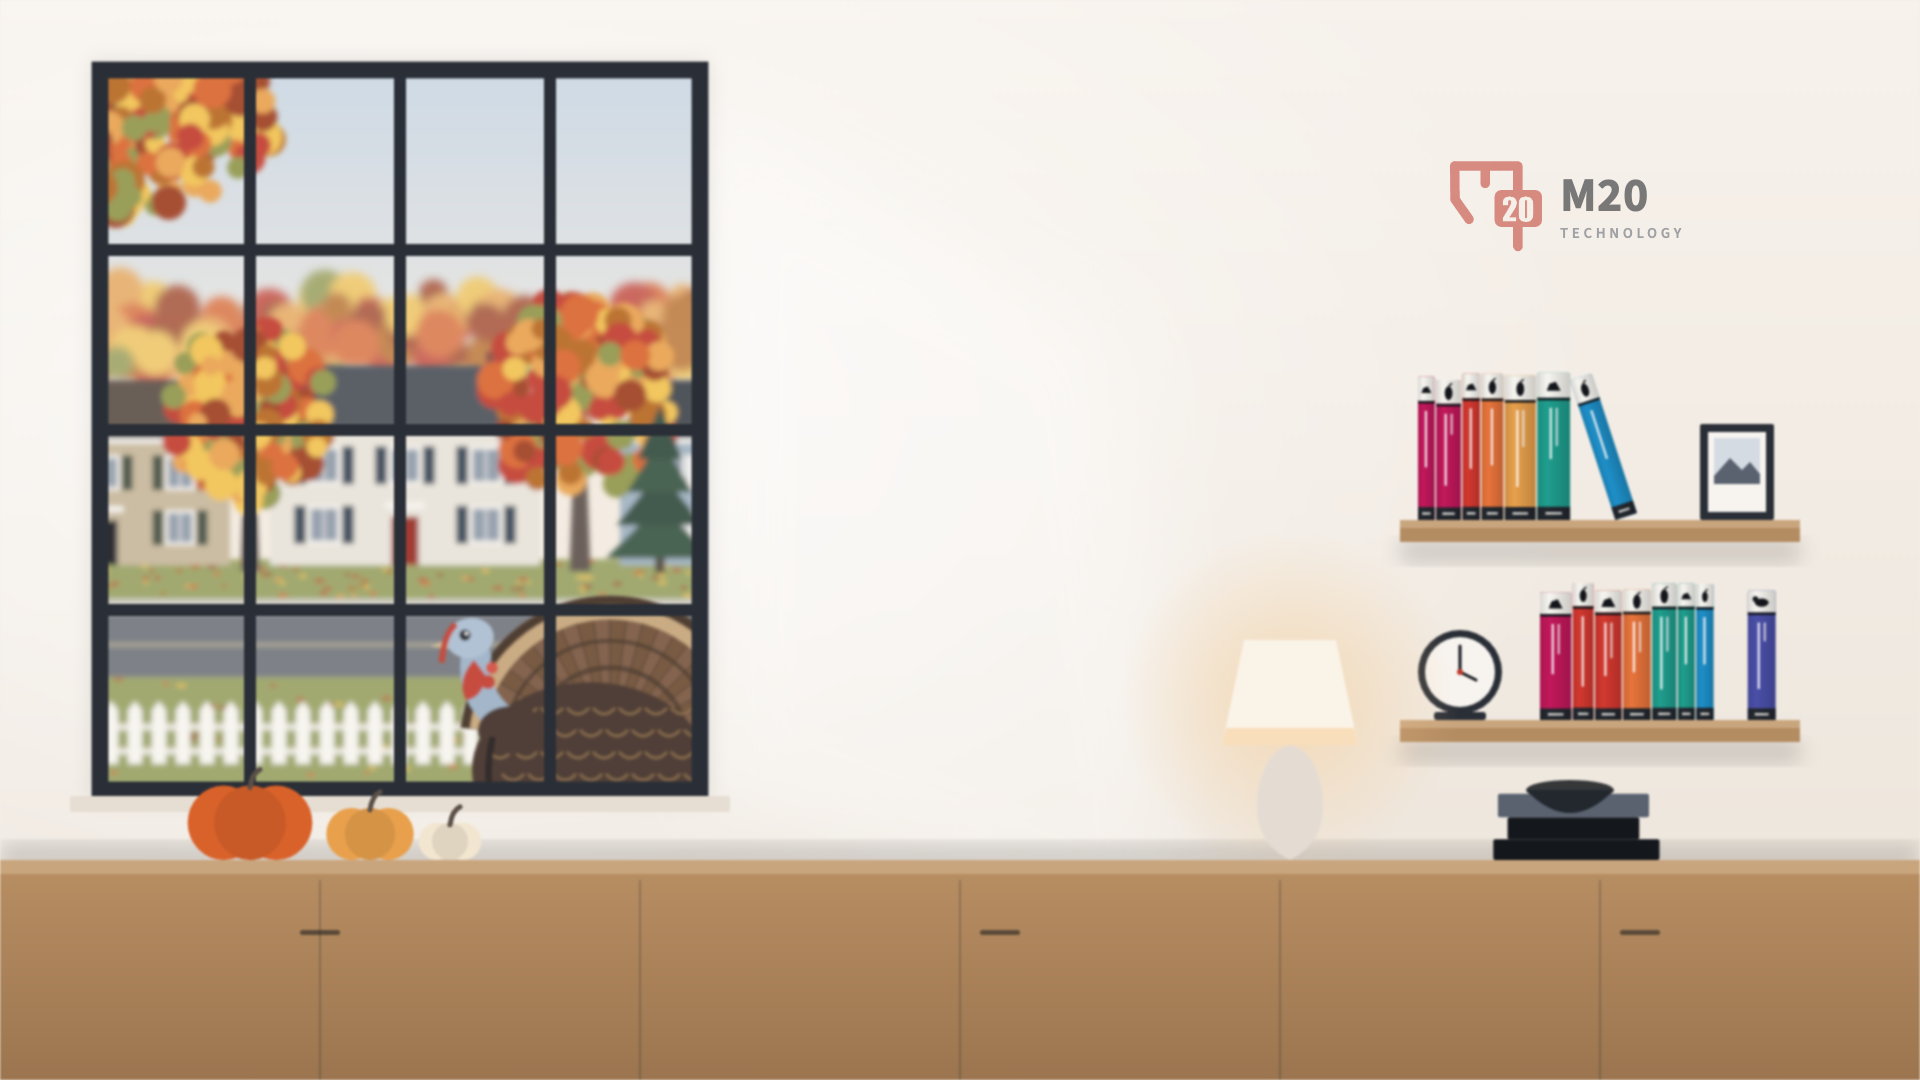
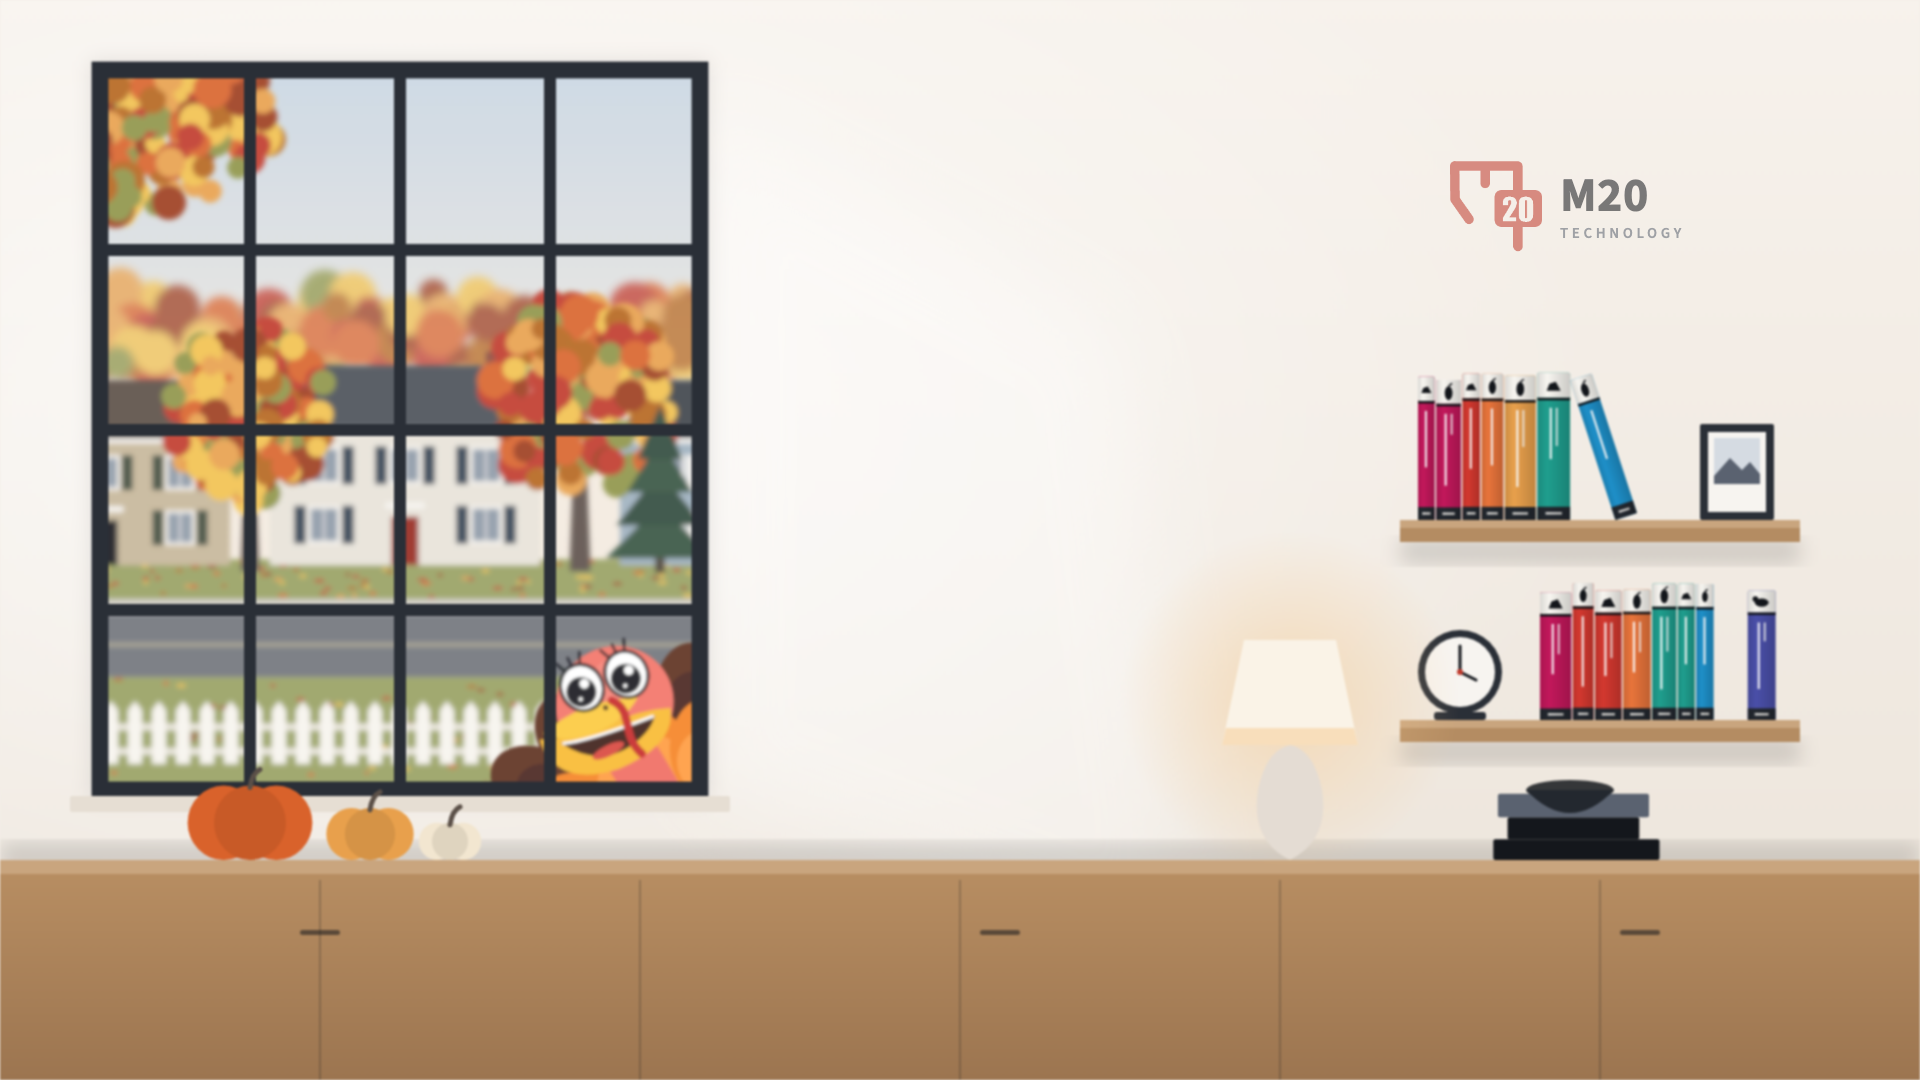
WEB-61 Make the fall turkey a silly cartoon peeking in
The fall home office's turkey is now a cartoon: googly eyes with lashes, an
open-beak grin, a dangling snood and a big scalloped tail fan, peeking up
into the bottom-right pane from below the sill.

Changed region(s): [[0.2188, 0.55, 0.375, 0.7333]]

diff --git a/scripts/backgrounds/video-office-seasons.html b/scripts/backgrounds/video-office-seasons.html
@@ -318,54 +318,69 @@ function viewNY() {
   } else {
     near += crown(WX + 10, WY + 40, 170, 105, CROWNS[SEASON], 12, 220, 0.16);
   }
-  const pet = SEASON === "fall" && !HOLIDAY ? turkey(WX + 470, WY + WH - 20) : "";
+  const pet = SEASON === "fall" && !HOLIDAY ? turkey(WX + WW, WY + WH + 90, 0.62, -12) : "";
   return { sky, far, mid: ground + mid, near, pet };
 }
 
-// A wild turkey right outside the glass, fanned out, head up, peering in.
-function turkey(tx, by) {
-  const cx = tx + 40, cy = by - 24, R = 150;
-  const pt = (a, rr) => `${(cx + Math.cos(a) * rr).toFixed(1)} ${(cy + Math.sin(a) * rr).toFixed(1)}`;
+// A silly cartoon turkey peeking in: drawn around its body centre (0, 0),
+// then placed at (tx, ty), scaled and tilted. Big eyes with lashes, a wide
+// open-beak grin, a dangling snood, and a fan of rounded feathers.
+function turkey(tx, ty, scale = 1, tilt = 0) {
   let s = "";
-  // tail fan: contiguous feathers, banded near the tips
-  const a0 = Math.PI * 1.04, a1 = Math.PI * 1.96, n = 22, step = (a1 - a0) / n;
-  for (let i = 0; i < n; i++) {
-    const a = a0 + i * step;
-    s += `<path d="M${cx} ${cy} L${pt(a, R)} A${R} ${R} 0 0 1 ${pt(a + step, R)}Z"
-      fill="${i % 2 ? "#6B4A2E" : "#76533A"}" stroke="#4A3324" stroke-width="1"/>`;
+  const lobe = (a, rr, rx, ry, fill) => {
+    const x = Math.cos(a) * rr, y = Math.sin(a) * rr, deg = (a * 180) / Math.PI + 90;
+    return `<ellipse cx="${x.toFixed(1)}" cy="${y.toFixed(1)}" rx="${rx}" ry="${ry}"
+      fill="${fill}" transform="rotate(${deg.toFixed(1)} ${x.toFixed(1)} ${y.toFixed(1)})"/>`;
+  };
+  // fan: dark outer feathers, then orange, each with a darker inner tip
+  for (let i = 0; i <= 9; i++) {
+    const a = Math.PI * (1.02 + (i / 9) * 0.96);
+    s += lobe(a, 285, 64, 98, "#5B2E1E") + lobe(a, 266, 48, 70, "#47231A");
   }
-  const band = (rr, w, c, o = 1) => `<path d="M${pt(a0, rr)} A${rr} ${rr} 0 0 1 ${pt(a1, rr)}"
-    fill="none" stroke="${c}" stroke-width="${w}" opacity="${o}"/>`;
-  s += band(R * 0.52, 5, "#3B2A1E", 0.7) + band(R * 0.7, 4, "#3B2A1E", 0.7)
-    + band(R - 16, 14, "#C9A87A", 0.95) + band(R - 4, 8, "#3B2A1E");
-  // body: dark bronze with scalloped feather rows
-  s += `<ellipse cx="${tx + 20}" cy="${by}" rx="118" ry="88" fill="#3E2C20"/>`;
-  for (let row = 0; row < 4; row++) {
-    for (let k = 0; k < 8; k++) {
-      const fx = tx - 70 + k * 26 + (row % 2) * 13, fy = by - 62 + row * 22;
-      s += `<path d="M${fx - 11} ${fy} Q${fx} ${fy + 12} ${fx + 11} ${fy}" fill="none"
-        stroke="#9A7448" stroke-width="2.5" opacity=".7"/>`;
-    }
+  for (let i = 0; i <= 9; i++) {
+    const a = Math.PI * (1.0 + (i / 9) * 1.0) + 0.06;
+    s += lobe(a, 214, 54, 78, "#F58220") + lobe(a, 192, 42, 50, "#FF9A3C");
   }
-  // neck, beard, head
-  const hx = tx - 100, hy = by - 132;
-  s += `<path d="M${tx - 62} ${by - 46} Q${tx - 100} ${by - 72} ${hx + 6} ${hy + 18}"
-      stroke="#9AAFC4" stroke-width="30" fill="none" stroke-linecap="round"/>
-    <ellipse cx="${tx - 58}" cy="${by - 40}" rx="34" ry="24" fill="#3E2C20"/>
-    <path d="M${tx - 78} ${by - 30} q-6 30 -2 50" stroke="#1E1712" stroke-width="7"
-      stroke-linecap="round" fill="none"/>
-    <path d="M${hx + 4} ${hy + 22} q-18 20 -8 40 q16 -2 20 -24Z" fill="#C0392B"/>
-    <circle cx="${hx + 18}" cy="${hy + 44}" r="7" fill="#C0392B"/>
-    <circle cx="${hx + 22}" cy="${hy + 30}" r="6" fill="#D24A3A"/>
-    <ellipse cx="${hx}" cy="${hy}" rx="24" ry="20" fill="#A9BCD0"
-      transform="rotate(-12 ${hx} ${hy})"/>
-    <path d="M${hx - 22} ${hy + 2} L${hx - 40} ${hy + 8} L${hx - 22} ${hy + 11}Z"
-      fill="#C9B48A"/>
-    <path d="M${hx - 16} ${hy - 12} q-10 10 -12 34" stroke="#C0392B" stroke-width="6"
-      stroke-linecap="round" fill="none"/>
-    <circle cx="${hx - 5}" cy="${hy - 3}" r="5.5" fill="#14171C"/>
-    <circle cx="${hx - 3.5}" cy="${hy - 4.5}" r="1.8" fill="#fff"/>`;
-  return s;
+  s += `<circle r="152" fill="#43211A"/><circle r="140" fill="#5A2A1C"/>
+    <circle cx="-30" cy="-30" r="96" fill="#663220" opacity=".55"/>`;
+  // neck with a frilly base
+  s += `<path d="M-10 -40 Q-40 -150 -70 -230" stroke="#F06B5E" stroke-width="86"
+      fill="none" stroke-linecap="round"/>`;
+  for (const [x, y, r] of [[-62, -12, 22], [-30, 4, 24], [4, -2, 22], [24, -30, 18],
+    [-74, -40, 18]]) s += `<circle cx="${x}" cy="${y}" r="${r}" fill="#F06B5E"/>`;
+  // head, tilted toward the glass
+  const H = [-80, -300];
+  const h = (dx, dy) => `${H[0] + dx} ${H[1] + dy}`;
+  s += `<g transform="rotate(-14 ${H[0]} ${H[1]})">
+    <ellipse cx="${H[0] + 6}" cy="${H[1] - 6}" rx="96" ry="92" fill="#F37266"/>
+    <ellipse cx="${H[0] + 30}" cy="${H[1] - 40}" rx="50" ry="36" fill="#F7877A" opacity=".7"/>
+    <!-- grin: yellow beak around an open mouth -->
+    <path d="M${h(-128, -6)} Q${h(-140, 76)} ${h(-34, 92)} Q${h(66, 98)} ${h(84, 40)}
+      Q${h(36, 20)} ${h(-20, 20)} Q${h(-84, 14)} ${h(-128, -6)}Z" fill="#F9B92E"/>
+    <path d="M${h(-100, 14)} Q${h(-66, 70)} ${h(-12, 68)} Q${h(36, 64)} ${h(56, 40)}
+      Q${h(0, 40)} ${h(-100, 14)}Z" fill="#3A1A12"/>
+    <path d="M${h(-96, 16)} Q${h(-60, 30)} ${h(52, 40)}" stroke="#fff" stroke-width="5"
+      fill="none" stroke-linecap="round"/>
+    <ellipse cx="${H[0] - 36}" cy="${H[1] + 58}" rx="28" ry="9" fill="#D9443B"/>
+    <path d="M${h(-118, -12)} Q${h(-44, -36)} ${h(44, 2)} Q${h(4, 30)} ${h(-52, 22)}
+      Q${h(-100, 14)} ${h(-118, -12)}Z" fill="#FCC93A"/>
+    <circle cx="${H[0] - 10}" cy="${H[1] - 6}" r="4" fill="#3A1A12"/>
+    <!-- eyes with lashes -->
+    ${[[-30, -52, 1], [44, -40, 1]].map(([dx, dy]) => {
+      const ex = H[0] + dx, ey = H[1] + dy;
+      return `<ellipse cx="${ex}" cy="${ey}" rx="34" ry="38" fill="#fff" stroke="#14171C"
+          stroke-width="5"/>
+        <circle cx="${ex - 4}" cy="${ey + 6}" r="24" fill="#14171C"/>
+        <circle cx="${ex + 6}" cy="${ey - 4}" r="8" fill="#fff"/>
+        <circle cx="${ex - 10}" cy="${ey + 16}" r="3.5" fill="#fff"/>
+        ${[-14, 0, 14].map((o) => `<path d="M${ex + o} ${ey - 37} l${o * 0.5} -16"
+          stroke="#14171C" stroke-width="4" stroke-linecap="round"/>`).join("")}`;
+    }).join("")}
+    <!-- snood dangling over the beak -->
+    <path d="M${h(4, -12)} C${h(30, 18)} ${h(-8, 44)} ${h(10, 86)}" stroke="#C62828"
+      stroke-width="13" fill="none" stroke-linecap="round"/>
+  </g>`;
+  return `<g transform="translate(${tx} ${ty}) rotate(${tilt}) scale(${scale})">${s}</g>`;
 }
 
 function viewDallas() {

diff --git a/design.md b/design.md
@@ -132,7 +132,7 @@ count matters editorially — the Rovo agents grid on `ai.dc.html` is the one su
 - Atlassian logos: We have permission to use Atlassian logos within our materials and they should be included where appropriate. We have the logos for products in our [Google Drive](https://drive.google.com/drive/u/0/folders/1tg5lWANCkSzNrXbQKVI72EC3TEz15eIY). Use logos with attribution where possible. Guidelines for Atlassian logo usage are [here](https://atlassian.design/components/logo/usage). **On dark backgrounds** use the `-inverse` file (`assets/products/<product>-inverse.svg`): the official lockup with the wordmark in white and the product mark untouched, set directly on ink at 34px tall with at least the mark's height of clear space around it. Atlassian's own logo component offers the same inverse appearance for dark and bold backgrounds. Never put a product logo over photos or busy art, recolor the mark, crop it, or rebuild the lockup; where a dark surface isn't available, use the full-color file on paper or white. (The ADS site's logo pages don't spell out containers or clear space, so these two are house rules; check the Atlassian brand kit before changing them.)
 - Sourcing third-party logos and brand assets: check what we already have first (`assets/clients/`, `assets/partners/`, `assets/products/`, and the Atlassian logos in Drive). For anything missing or low-resolution, use the **Brandfetch MCP** (`https://mcp.brandfetch.io/mcp`, configured for this project) to pull official, high-resolution logos, icons, and brand colors instead of cropping screenshots or recreating marks by hand. Prefer SVG or a large transparent PNG, and pick the full-color horizontal lockup unless the layout calls for an icon. Client logos still follow the usage note in **Asset library** (approved for the website only); check before using one in other materials.
 - Illustrations: covers, explanatory illustrations, and spots come from the shared artwork library — see **Illustrations** below.
-- Video-call backgrounds: `assets/backgrounds/video-*.png`, 1920×1080, in the ink, maroon, and paper grounds (two have a name card to fill in), plus three illustrated offices (`video-office-studio`, `-lounge`, `-city`) and six home-office takes on the studio: a suburban New York street in each season (`video-office-ny-fall`, `-ny-winter`, `-ny-spring`, `-ny-summer`; colonial houses and street trees, no high-rises, no plants indoors, O'Reilly-style spines in rainbow order on the shelves, and a wild turkey peering in at fall), the winter room dressed for Christmas and Hanukkah (`video-office-ny-holiday`), and a Dallas-area street of brick ranch houses and live oaks (`video-office-dallas`). The home offices carry a quieter logo (smaller, at 55% opacity). The offices keep the logo top-right and the center clear for the speaker. Zoom, Meet, and Teams mirror your own preview, so the logo looks reversed to you but reads correctly to everyone else. Browse them, and every other asset, in the **Asset library** below.
+- Video-call backgrounds: `assets/backgrounds/video-*.png`, 1920×1080, in the ink, maroon, and paper grounds (two have a name card to fill in), plus three illustrated offices (`video-office-studio`, `-lounge`, `-city`) and six home-office takes on the studio: a suburban New York street in each season (`video-office-ny-fall`, `-ny-winter`, `-ny-spring`, `-ny-summer`; colonial houses and street trees, no high-rises, no plants indoors, O'Reilly-style spines in rainbow order on the shelves, and a silly cartoon turkey peeking in at fall), the winter room dressed for Christmas and Hanukkah (`video-office-ny-holiday`), and a Dallas-area street of brick ranch houses and live oaks (`video-office-dallas`). The home offices carry a quieter logo (smaller, at 55% opacity). The offices keep the logo top-right and the center clear for the speaker. Zoom, Meet, and Teams mirror your own preview, so the logo looks reversed to you but reads correctly to everyone else. Browse them, and every other asset, in the **Asset library** below.
 - Gmail themes: `assets/backgrounds/gmail-{ink,paper,ember}.png`, 2560×1440. Gmail draws its top bar, left nav, and right strip straight onto the theme image, so each theme is one tone edge to edge with only a faint mesh texture: never a light/dark split under the nav, and no bright accents in the nav or top bar. Install via Settings → Themes → View all → My photos, with **Text background** Dark for ink and ember, Light for paper.
 - Background sources: the office scenes and Gmail themes are generated from HTML in `scripts/backgrounds/` (`render.sh <source.html> <out.png> [scale]`, needs Google Chrome; Gmail themes take `?v=ink|paper|ember` and scale `1.3333`; the home offices are `video-office-seasons.html?v=ny-fall|ny-winter|ny-spring|ny-summer|ny-holiday|dallas`). Check a Gmail theme with `gmail-mock.html?img=<png>&text=light|dark`, a rough Gmail layout, before uploading it. The vector hero mesh is drawn in VectorCraft by `python3 -I scripts/backgrounds/hero-network-mesh.py` (needs `vectorcraft-cli`; `--native` also writes an editable `.vectorcraft` file, which isn't committed).
 
